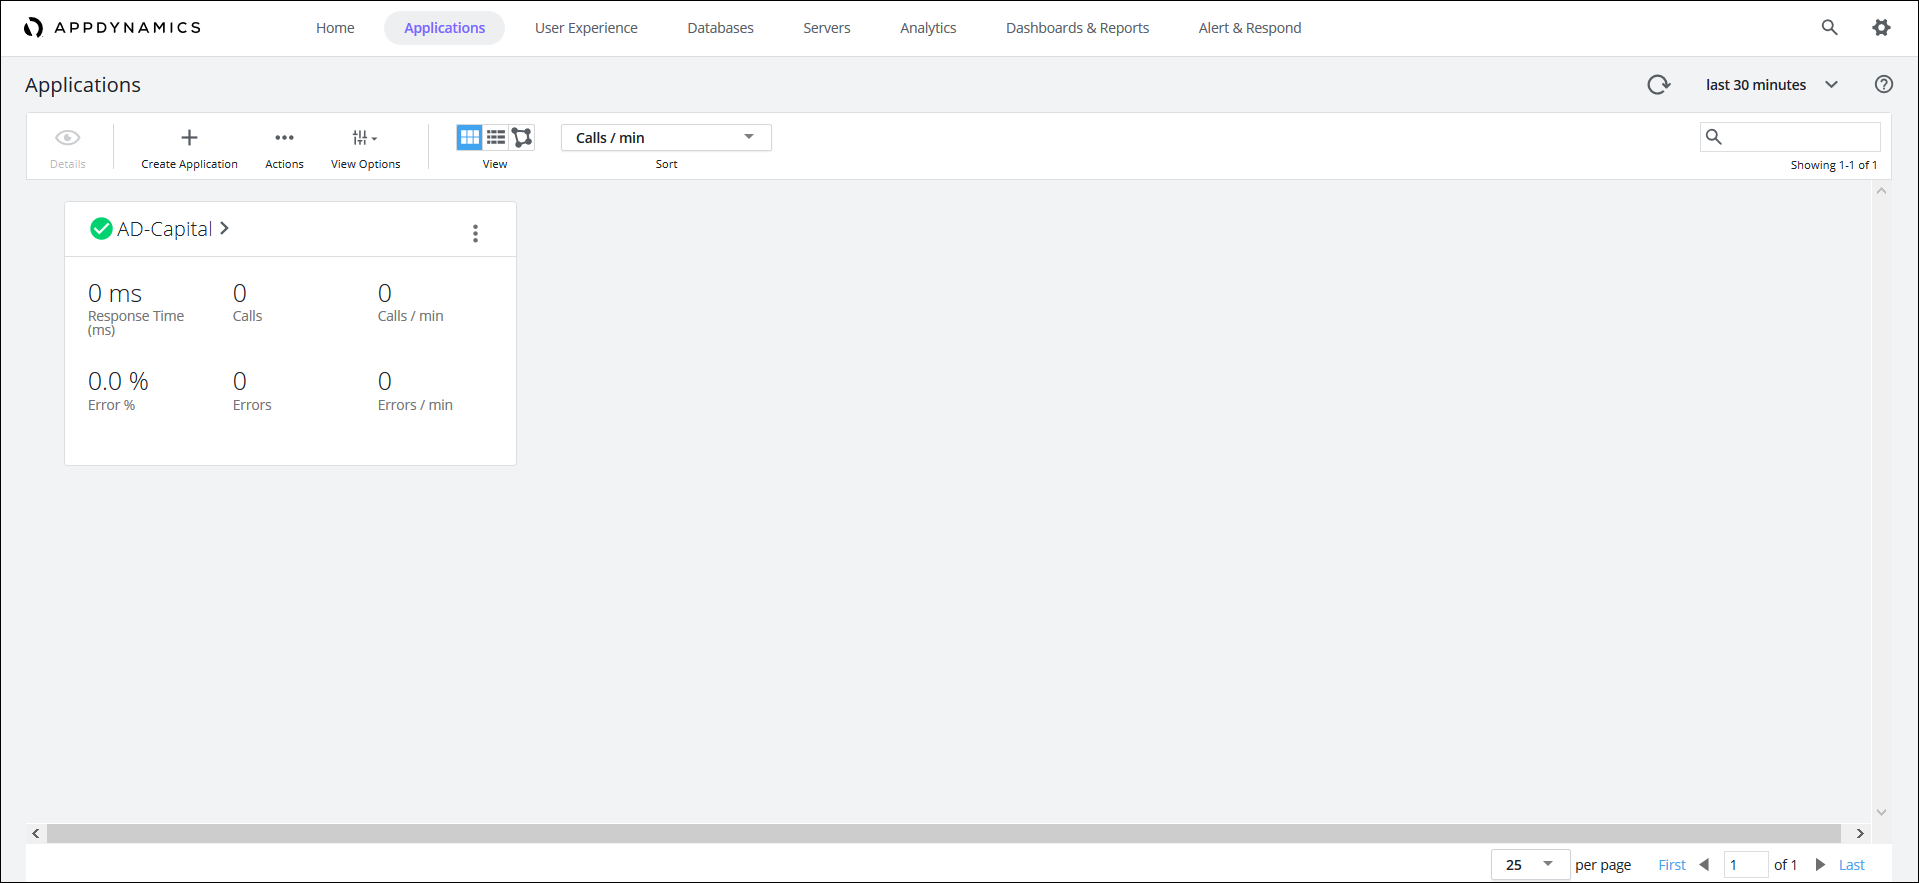
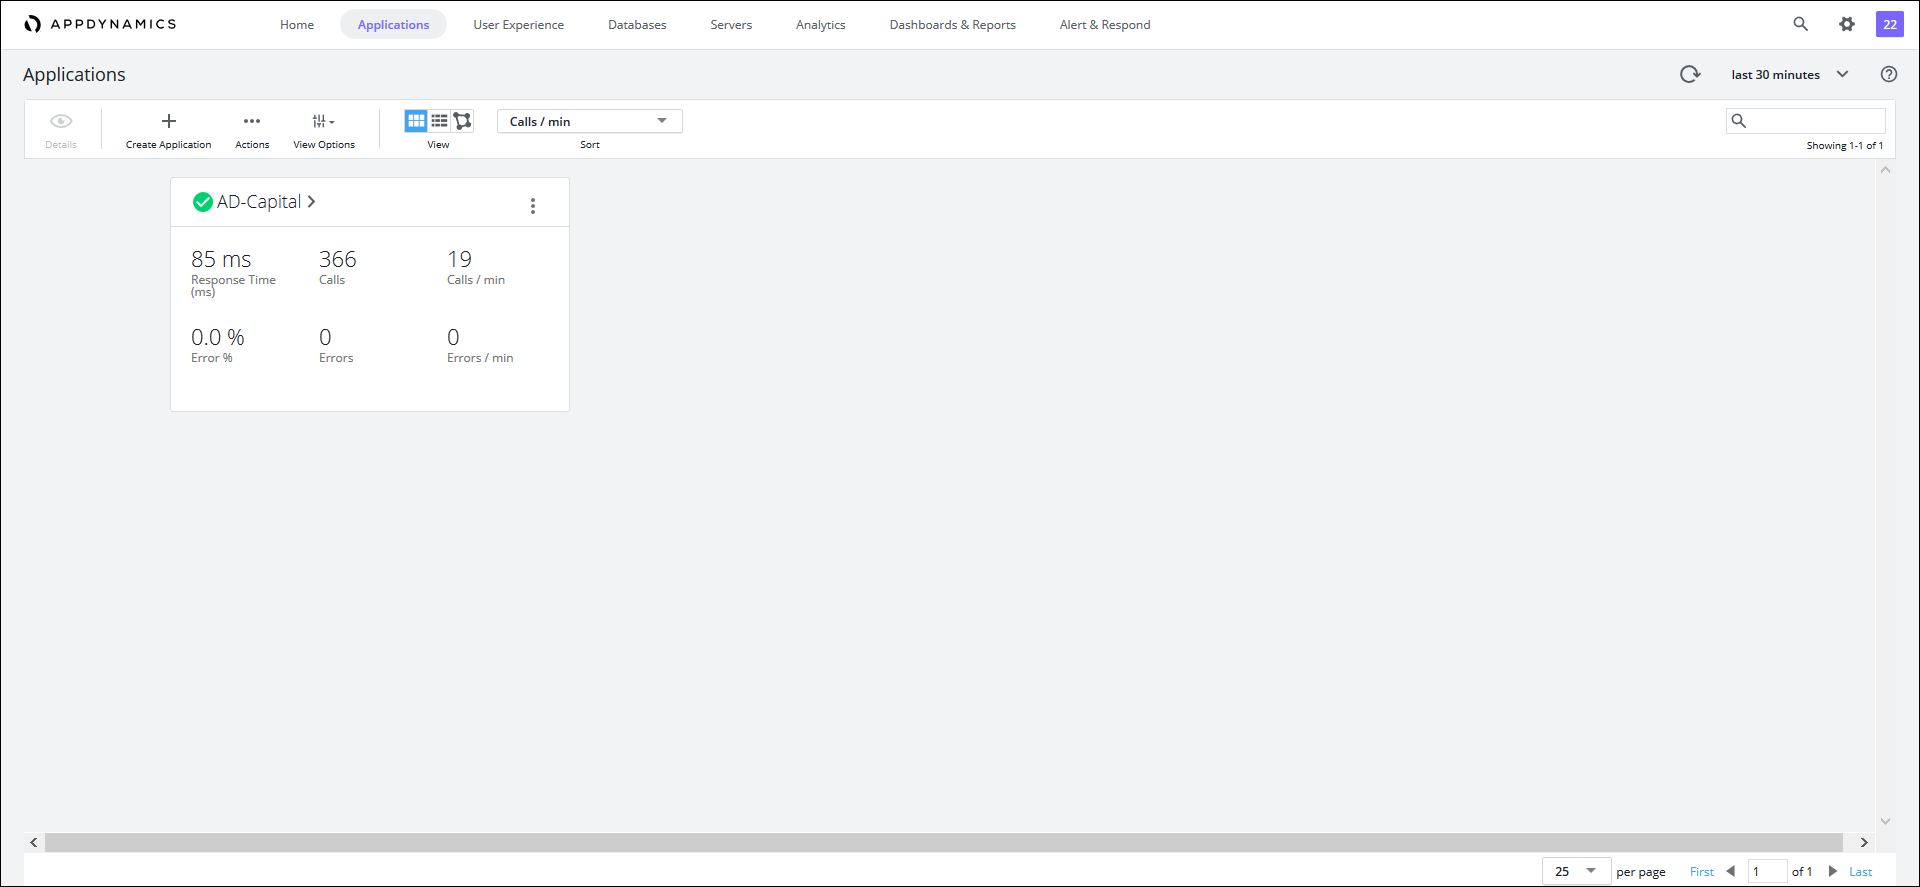
updated lab guide

diff --git a/workshops/aws/eks-monitoring-lab/lab-exercise-04.md b/workshops/aws/eks-monitoring-lab/lab-exercise-04.md
@@ -117,7 +117,7 @@ You should then see output similar to the image seen below:
 
 ![AD-Capital Deploy](./images/10.png)
 
-Now wait two minutes and run the command below so validate that the EKS pods are running:
+Now wait two minutes and run the command below to validate that the EKS pods are running:
 
 ```
 kubectl get pods -n default
@@ -134,6 +134,10 @@ You should then see output similar to the image seen below:
 Wait two more minutes and go to your web browser and check the controller to see if the AD-Capital application is reporting to the controller.  You should see what the image below shows when you click on the Applications tab:
 
 ![Controller Apps](./images/12.png)
+
+Wait a few more minutes and you should see the flow map that looks like the image below:
+
+![Flow Map](./images/13.png)
 
 <br>
 
